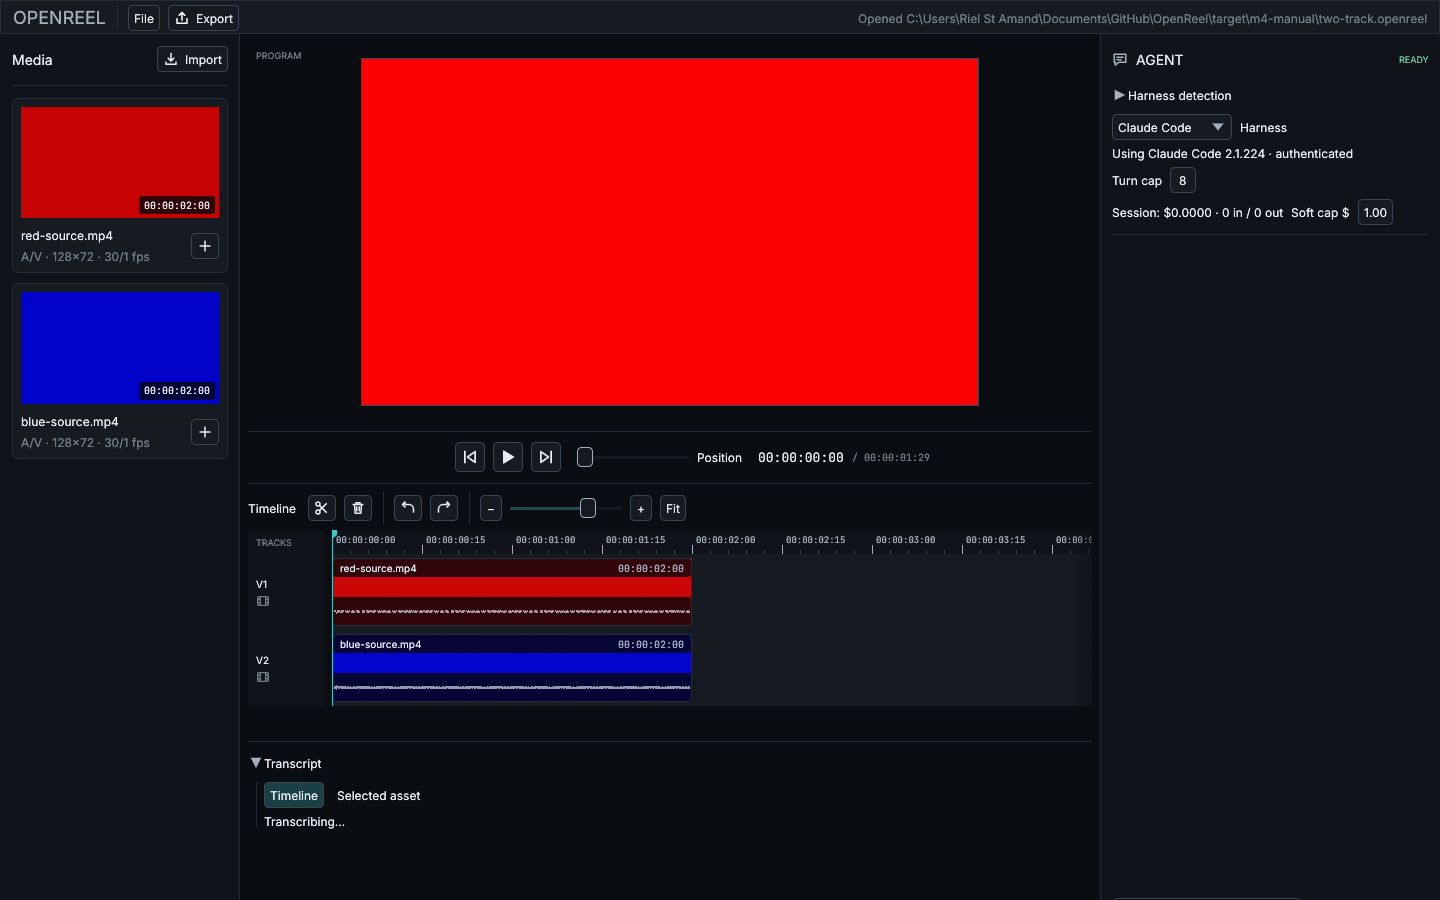
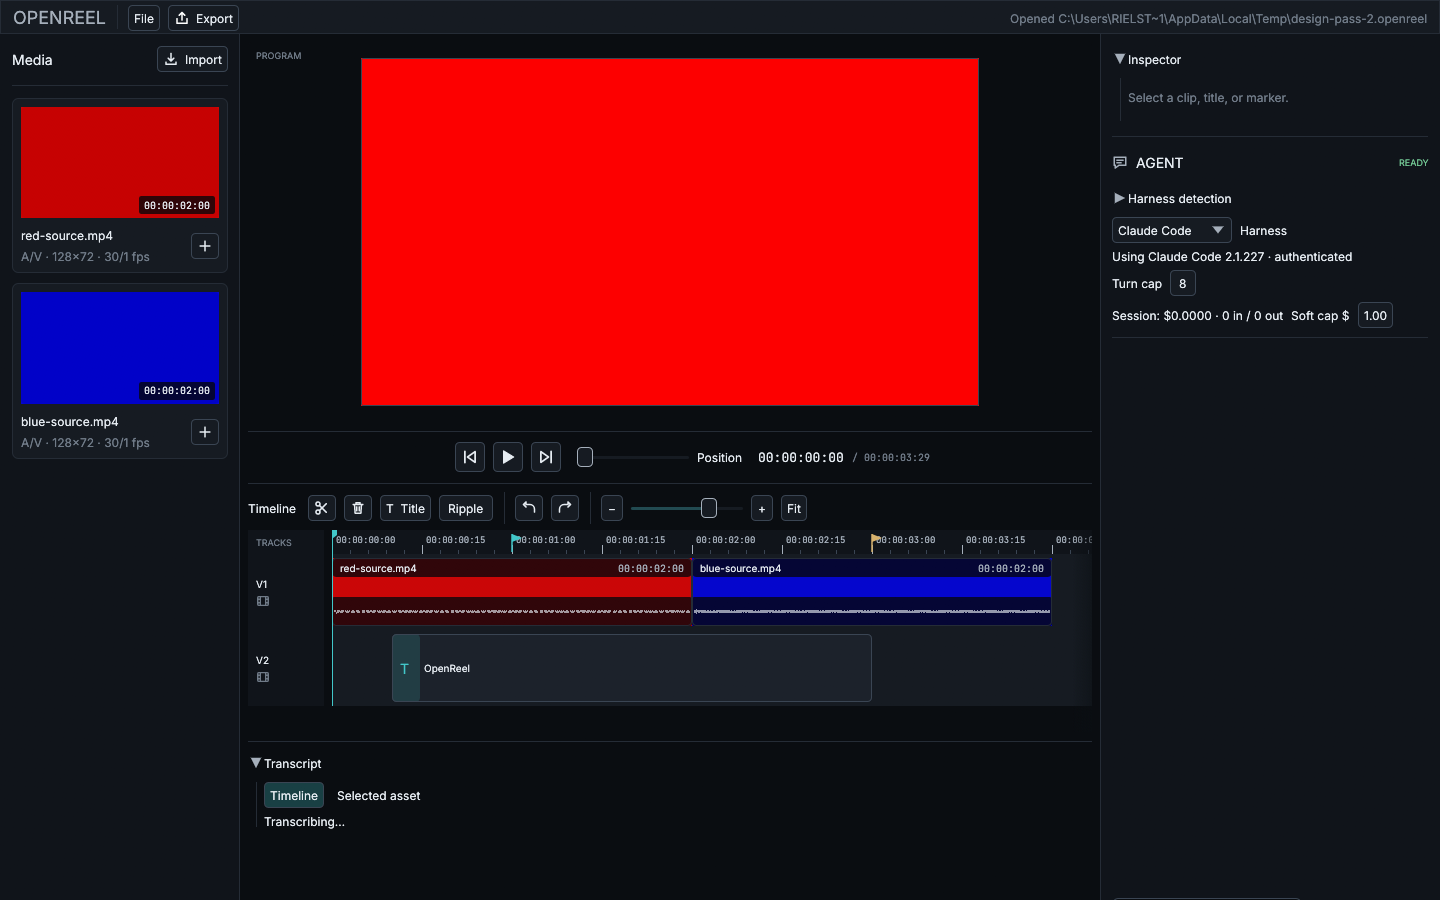
Docs: catch the README and CHANGELOG up to the codebase
The CHANGELOG Unreleased section now covers M8-M16-era work (media
hardening, proxy playback, agent senses/plans/evals, ergonomics,
titles/inspector, audio mixing parity, the audit). README features
reflect the current product, and the hero screenshot shows titles,
markers, and the inspector from the latest design pass.

diff --git a/CHANGELOG.md b/CHANGELOG.md
@@ -33,5 +33,34 @@ The initial development cycle (milestones M0–M7), building the editor end to e
   adaptive timecode ruler, animated zoom
 - Windows installer with bundled GPL FFmpeg; tag-driven release pipeline
 - `OpenReel.exe <project>` startup argument
+- Real-world media hardening: VFR sources mapped onto the CFR timeline with
+  bounded drift, rotation metadata applied everywhere consistently, odd audio
+  rates, 4K long-GOP and HEVC coverage, actionable errors instead of silent
+  failures (see `docs/MEDIA-POLICY.md`)
+- Proxy-resolution preview decode with measured budgets: 4K long-GOP scrubs at
+  p95 ≈ 120 ms and plays sequentially well above 60 fps on software decode
+- Agent senses and planning: silence detection (windowed RMS), scene-boundary
+  detection, and `apply_edit_plan` — atomic multi-operation plans with a single
+  undo entry, one summarized confirmation for destructive plans, and
+  self-reporting results (remaining cuttable silence count)
+- Agent eval harness (`openreel-eval`): seven scored editing tasks including a
+  five-take rough-cut flagship, per-eval budgets, pass-rate sampling
+  (`--only`, `--samples`), committed baselines in `docs/EVALS.md`
+- Transcript-aware silence cutting: spans reported for cutting never overlap
+  transcribed words and split around embedded words
+- Editing ergonomics: ripple delete/insert with cross-track sync-lock
+  (default-locked tracks, per-track opt-out), A/V clip linking with atomic
+  linked edits, project markers with ripple-following semantics, marker and
+  cross-track snapping with Alt-bypass
+- Titles as first-class timeline clips (declarative style tokens, position
+  presets, scrim, frame-based fades) rendered through the same wgpu path as
+  export, with WYSIWYG parity tested; context-sensitive inspector panel driven
+  by the effect descriptor table
+- Multi-track audio playback mixing matching the export mixdown to sample-level
+  parity — what you hear is what you export
+- Codebase audit and remediation: −7.9% source lines, shared derived-data
+  framework, `MediaEngine` split into Playback/Analysis/Export facets, fmt and
+  clippy (`-D warnings`) enforced in CI (see `docs/AUDIT-2026-08.md`)
+- OpenReel icon set by GPT-5.6 Luna (app, taskbar, installer, README)
 
 [Unreleased]: https://github.com/CanadaApollo6/OpenReel/commits/main

diff --git a/README.md b/README.md
@@ -25,12 +25,15 @@ OpenReel is a native Windows video editor written in Rust that is, at its core, 
 
 ## Features
 
-- Timeline editing: cut, trim, move, split, multi-track, snapping, filmstrip thumbnails, audio waveforms
-- Playback with sample-accurate A/V sync (the audio clock is the master; video never leads)
-- Multi-track GPU compositing (wgpu) with effects and crossfades — **preview and export share one render path**, so what you see is what you export
+- Timeline editing: cut, trim, move, split, multi-track, ripple delete/insert with cross-track sync-lock, A/V clip linking, project markers, snapping (markers, cross-track edges, Alt to bypass), filmstrip thumbnails, audio waveforms
+- Playback with sample-accurate A/V sync (the audio clock is the master; video never leads) and **multi-track audio mixing that matches the export mixdown to sample-level parity**
+- Smooth 4K scrubbing via proxy-resolution preview decode, with performance budgets asserted in tests — and hostile real-world media (VFR phone footage, rotation metadata, HEVC, odd audio) handled by written policy
+- Multi-track GPU compositing (wgpu) with effects, crossfades, and **titles as first-class clips** — preview and export share one render path, so what you see is what you export
 - Export to H.264/AAC mp4 with progress and cancellation
-- Agent chat panel: streaming responses, tool-call display, per-session cost tracking with a spending cap, confirmation prompts before destructive operations
+- Agent editing with senses and plans: transcript, silence, and scene-change inspectors; atomic multi-operation edit plans with a **single undo entry** and one summarized confirmation for anything destructive; plan results self-report remaining dead air so the agent finishes the job
 - The agent has *eyes*: it can fetch actual frames from your timeline, not just metadata
+- **Measured agent competence**: a scored eval suite (`openreel-eval`) with pass-rate sampling and committed baselines — see `docs/EVALS.md`
+- Context-sensitive inspector panel (clips, titles, markers) driven by the same effect table that validates operations
 - Transcript panel with click-word-to-seek
 - Crash recovery from an operation journal
 - Project save/load (`.openreel` JSON), keyboard-first editing (J/K/L, I/O, frame stepping — press `?` in-app)
